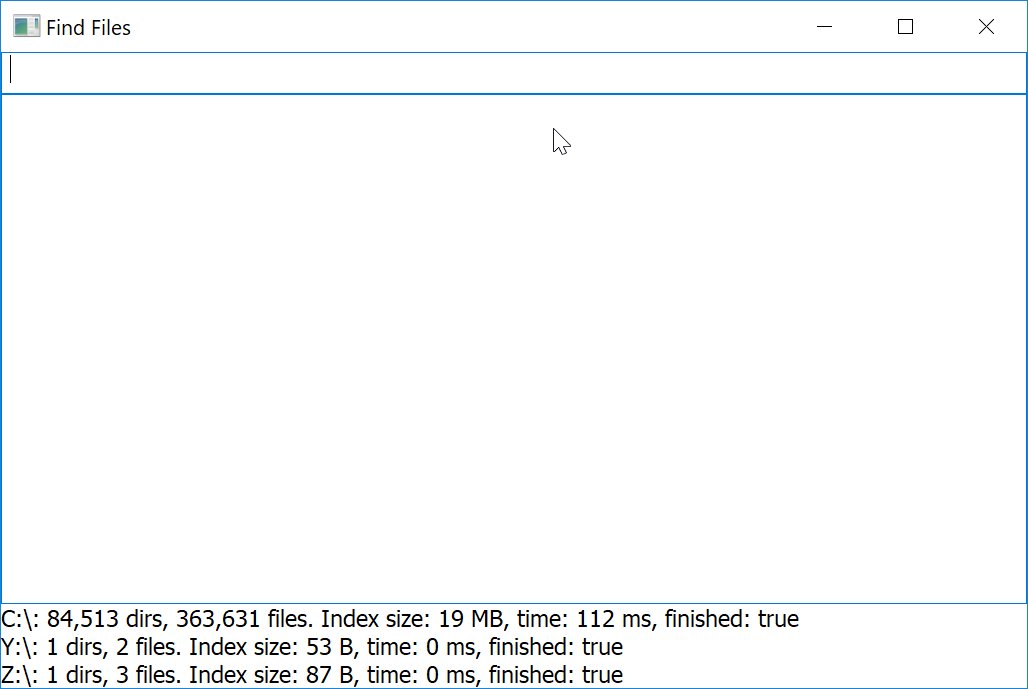
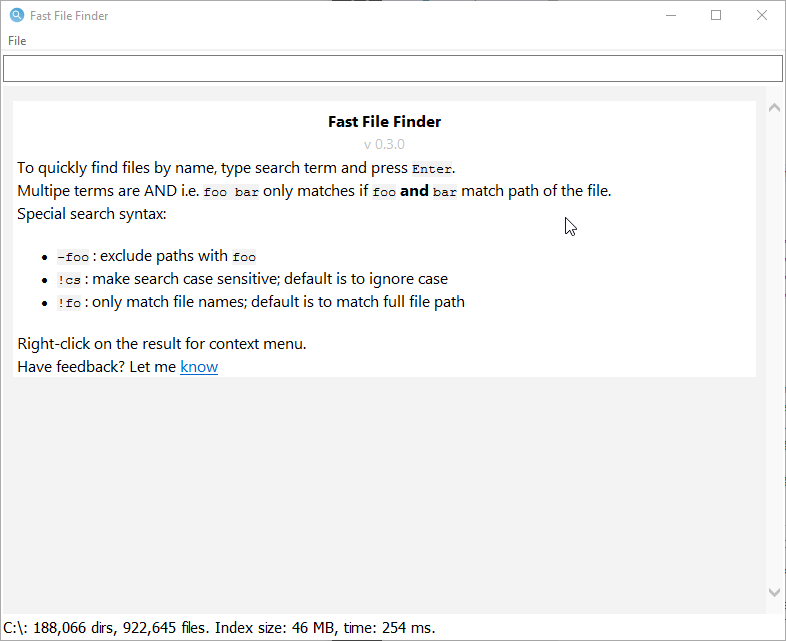
update landing page for file finder

diff --git a/www/software/fast-file-finder-for-windows/index.html b/www/software/fast-file-finder-for-windows/index.html
@@ -1,83 +1,101 @@
-<!doctype html>
+<!DOCTYPE html>
 <html>
-
-<head>
-    <meta charset="utf-8">
-    <meta name="viewport" content="width=device-width, initial-scale=1">
-    <meta name="referrer" content="always">
-    <meta name="description" content="Fast File Finder for Windows is a tool to find files quickly.">
+  <head>
+    <meta charset="utf-8" />
+    <meta name="viewport" content="width=device-width, initial-scale=1" />
+    <meta name="referrer" content="always" />
+    <meta
+      name="description"
+      content="Fast File Finder for Windows is a tool to find files quickly."
+    />
 
     <!-- Twitter Card data -->
-    <meta name="twitter:card" value="summary">
-    <meta name="twitter:site" content="@kjk">
-    <meta name="twitter:title" content="Fast File Finder is for quickly finding files on Windows">
-    <meta name="twitter:description" content="Fast File Finder is a tool to find files quickly on Window">
-    <meta name="twitter:creator" content="@kjk">
-    <meta name="twitter:image" content="shot-00.png">
+    <meta name="twitter:card" value="summary" />
+    <meta name="twitter:site" content="@kjk" />
+    <meta
+      name="twitter:title"
+      content="Fast File Finder is for quickly finding files on Windows"
+    />
+    <meta
+      name="twitter:description"
+      content="Fast File Finder is a tool to find files quickly on Window"
+    />
+    <meta name="twitter:creator" content="@kjk" />
+    <meta name="twitter:image" content="shot-00.png" />
 
     <!-- Open Graph i.e. Facebook data -->
-    <meta property="og:title" content="Find Files is for finding files quickly on Window">
+    <meta
+      property="og:title"
+      content="Find Files is for finding files quickly on Window"
+    />
     <meta property="og:type" content="article" />
-    <meta property="og:url" content="https://blog.kowalczyk/software/fast-file-finder-for-windows/" />
-    <meta property="og:description" content="Find Files is for finding files quickly on Window">
+    <meta
+      property="og:url"
+      content="https://blog.kowalczyk/software/fast-file-finder-for-windows/"
+    />
+    <meta
+      property="og:description"
+      content="Find Files is for finding files quickly on Window"
+    />
     <meta property="og:image" content=shot-00.png">
 
-    <title>Fast File Finder for Windows is a tool for quickly finding files</title>
+    <title>
+      Fast File Finder for Windows is a tool for quickly finding files
+    </title>
 
-    <link rel="stylesheet" href="https://unpkg.com/tachyons@4.7.0/css/tachyons.min.css"/>
-    <link href="findfiles.css" rel="stylesheet">
+    <link href="findfiles.css" rel="stylesheet" />
+
+    <script src="//kjkpubsf.sfo2.digitaloceanspaces.com/software/fastfilefinder/rel/latestver.js"></script>
 
     <script src="findfiles.js"></script>
     <script>
       function onload() {
         changeShot("shot-00.png");
+        updateDlUrl();
       }
 
       document.addEventListener("DOMContentLoaded", onload);
     </script>
-</head>
+  </head>
 
-<body>
-    <div class="flex flex-column mt3">
-
-      <div class="flex flex-row justify-end ml2 mr4">
-        <!--
-        <div class="ml3">Forum</div>
-        <div class="ml3">About</div>
-        -->
-      </div>
-
-      <div class="flex justify-center mt2">
-        <h1 class="ma0">Find Files</h1>
-      </div>
-
-      <div class="flex justify-center mt2">
-        Fast Way To Find Files on Windows
-      </div>
-
-      <div class="flex justify-center mt4">
-        <img id="main-shot" class="screenshot" src="shot-00.png">
-      </div>
-
-      <div class="flex justify-center mt4">
-        <div id="shot-00.png" class="pa1">
-          <a href="#" onclick="changeShot('shot-00.png'); return false">
-            <img src="shot-00.png" width="80" height="60">
-          </a>
-        </div>
-        <div id="shot-01.png" class="ml3 pa1">
-          <a href="#" onclick="changeShot('shot-01.png'); return false">
-            <img src="shot-01.png" width="80" height="60">
-          </a>
-        </div>
-      </div>
-
-      <div class="flex flex-column items-center mt3">
-        <a href="https://kjkpubsf.sfo2.digitaloceanspaces.com/software/fastfilefinder/rel/fastfilefinder-0.1.exe" class="buttonDownload">Download Free</a>
-        <div class="f7 mt1">Requires Windows 7, 8 or 10</div>
-      </div>
-
+  <body>
+    <h1 class="center">Fast File Finder</h1>
+    <div class="center" style="margin-top: -8px;">
+      Quickly find files, on Windows
     </div>
-</body>
 
+    <div class="center mt3">
+      <a id="dlurl"
+        href="https://kjkpubsf.sfo2.digitaloceanspaces.com/software/fastfilefinder/rel/fastfilefinder-0.2.exe"
+        class="buttonDownload"
+        >Free Download</a
+      >
+      <div class="f7 mt1">Requires Windows 7, 8 or 10</div>
+    </div>
+
+    <p>&nbsp;</p>
+
+    <div class="center" style="position: relative">
+      <img id="main-shot" class="screenshot" src="shot-00.png" />
+
+      <button id="image-next" onclick="imgNext(); return false;">&gt;</button>
+      <button id="image-prev" onclick="imgPrev(); return false;">&lt;</button>
+    </div>
+
+    <div class="center mt3">
+      <span id="shot-00.png" class="pa1">
+        <a href="#" onclick="changeShot('shot-00.png'); return false;">
+          <img src="shot-00.png" width="80" height="60" />
+        </a>
+      </span>
+
+      <span id="shot-01.png" class="ml3">
+        <a href="#" onclick="changeShot('shot-01.png'); return false;">
+          <img src="shot-01.png" width="80" height="60" />
+        </a>
+      </span>
+    </div>
+    <p>&nbsp;</p>
+    <p>&nbsp;</p>
+  </body>
 </html>

diff --git a/www/software/fast-file-finder-for-windows/findfiles.js b/www/software/fast-file-finder-for-windows/findfiles.js
@@ -1,4 +1,4 @@
-function $(id) {
+function getEl(id) {
   if (id[0] == "#") {
     id = id.substr(1);
   }
@@ -6,18 +6,59 @@ function $(id) {
 }
 
 var allShots = ["shot-00.png", "shot-01.png"];
+var currImg = "shot-00.png";
 
-function changeShot(url) {
-  var el = $("main-shot");
-  el.setAttribute("src", url);
+function getImgIdx(img) {
   var n = allShots.length;
   for (var i = 0; i < n; i++) {
+    if (img == allShots[i]) {
+      return i;
+    }
+  }
+  return 0;
+}
+
+function changeShot(imgUrl) {
+  currImg = imgUrl;
+
+  var el = getEl("main-shot");
+  el.setAttribute("src", currImg);
+
+  var n = allShots.length;
+  var isFirstImage = false;
+  var isLastImage = false;
+  for (var i = 0; i < n; i++) {
     var id = allShots[i];
-    el = $(id);
-    if (id == url) {
+    el = getEl(id);
+    if (id == imgUrl) {
+      isFirstImage = i == 0;
+      isLastImage = i == n - 1;
       el.classList.add("selected-img");
     } else {
       el.classList.remove("selected-img");
     }
   }
+}
+
+function updateDlUrl() {
+  var el = getEl("#dlurl");
+  el.setAttribute('href', gLatestVer.URL);
+}
+
+function advanceImage(n) {
+  var idx = getImgIdx(currImg) + n;
+  if (idx < 0) {
+    idx = allShots.length + idx;
+  } else {
+    idx = idx % allShots.length;
+  }
+  changeShot(allShots[idx]);
+}
+
+function imgNext() {
+  advanceImage(1);
+}
+
+function imgPrev() {
+  advanceImage(-1);
 }

diff --git a/www/software/fast-file-finder-for-windows/findfiles.css b/www/software/fast-file-finder-for-windows/findfiles.css
@@ -1,20 +1,60 @@
+html {
+	width: 100%;
+}
+
+body {
+	width: 100%;
+}
+
 /*
 https://github.com/tachyons-css/tachyons-flexbox
 http://tachyons.io/docs/
 */
-.flex { display: flex; }
-.flex-column { flex-direction: column; }
-.flex-row { flex-direction: row; }
-.items-end { align-items: flex-end; }
-.justify-end { justify-content: flex-end; }
+.f7{font-size:.75rem}
+.mt1{margin-top:.25rem}
+.mt2{margin-top:.5rem}
+.mt3{margin-top: 1rem}
+
+.pa1{
+	padding: 4px;
+}
+
+.mr2{margin-right:.5rem}
+.mr3{margin-right: 1rem}
 
 .selected-img {
   border: 1px solid lightskyblue;
 }
 
+#image-next,
+#image-prev {
+	padding: 8px 16px;
+	cursor: pointer;
+	font-size: 24px;
+	border: solid 1px lightgray;
+	background-color: white;
+	position: absolute;
+	top: 50%;
+}
+
+#image-next {
+	right: 32px;
+}
+
+#image-prev {
+	left: 32px;
+}
+
+
 .screenshot {
-	max-width: 95%;
+	max-width: 85%;
 	object-fit: scale-down;
+}
+
+.center {
+	margin-left: auto;
+	margin-right: auto;
+	text-align: center;
 }
 
 /* https://codepen.io/nw/pen/udkIB */
